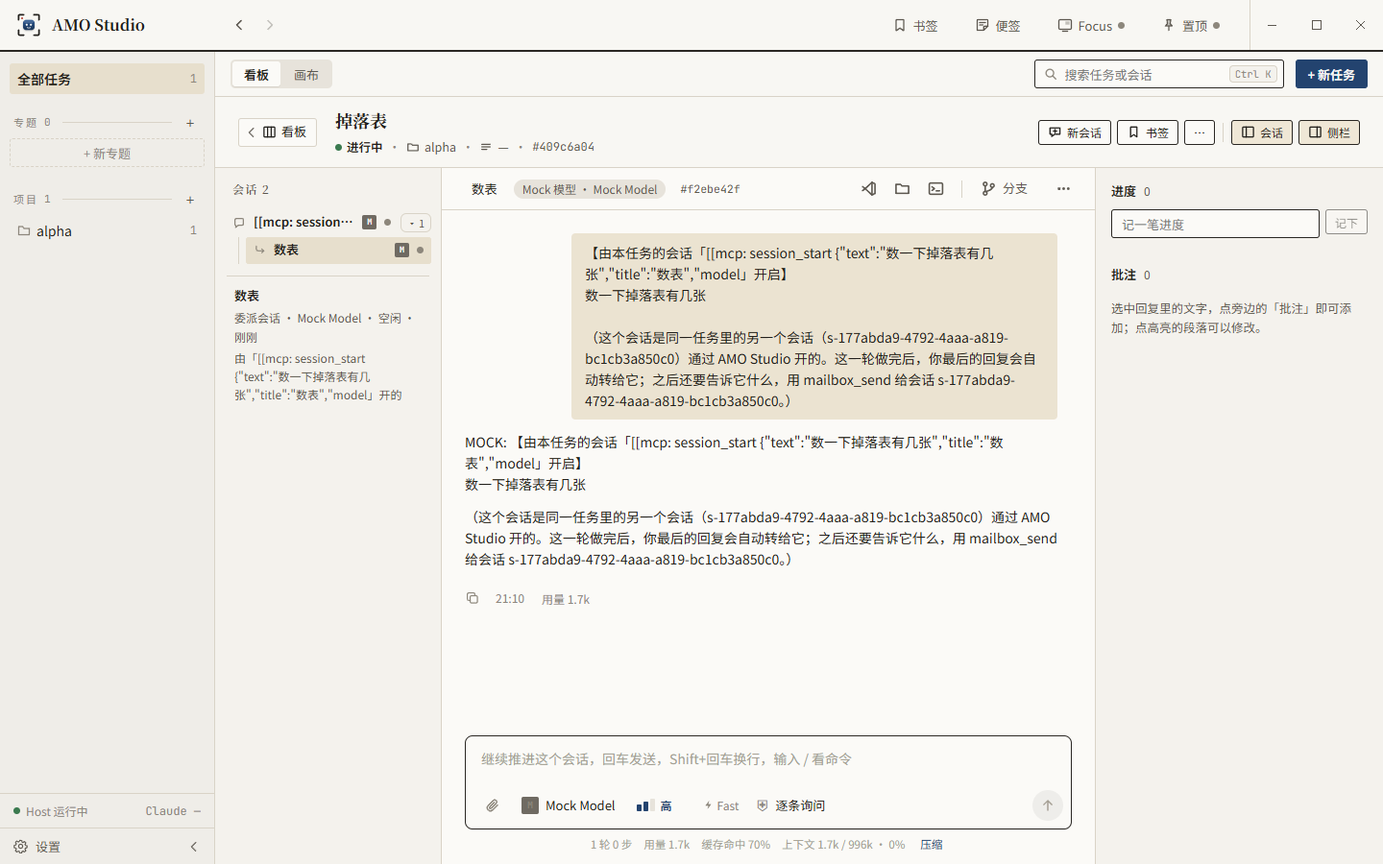
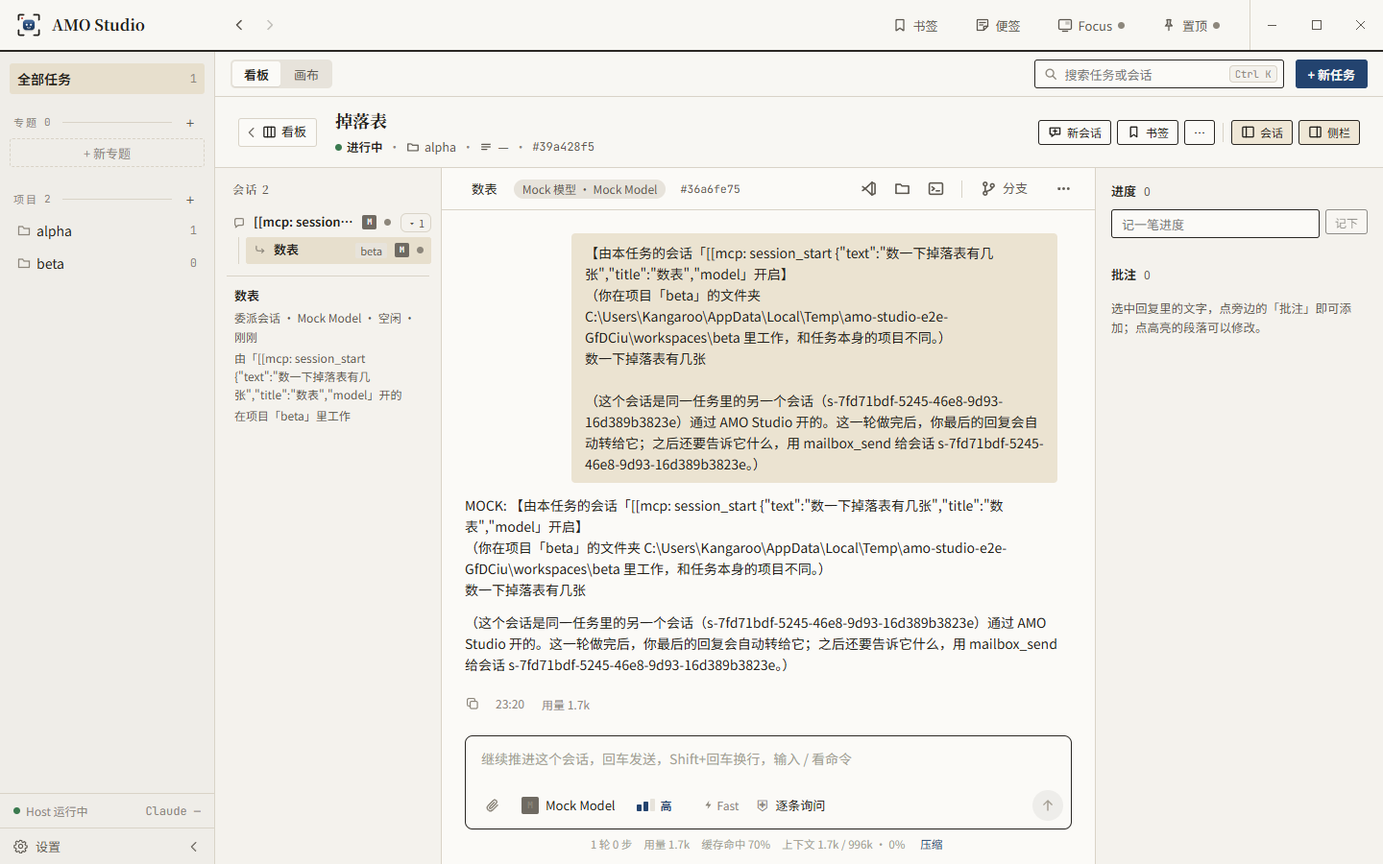
feat(studio): session_start can run a session in another project and pick its permission; DSH full access is Studio saying yes, since DSH 0.2 keeps a session's starting permission

diff --git a/studio/packages/host/src/features/sessions/service.ts b/studio/packages/host/src/features/sessions/service.ts
@@ -1,5 +1,5 @@
 import { resolve } from "node:path";
-import { asyncAnswerText, composeAnnotationRefs, composeRoleUpdate, formContent, type Attachment, type SessionOptions, type ApprovalDecision, type Id, type QuestionAnswer, type QuestionReply, type Session, type SessionItem, type TerminalAttach } from "@amo-studio/protocol";
+import { isCommon, type Workspace, asyncAnswerText, composeAnnotationRefs, composeRoleUpdate, formContent, type Attachment, type SessionOptions, type ApprovalDecision, type Id, type QuestionAnswer, type QuestionReply, type Session, type SessionItem, type TerminalAttach } from "@amo-studio/protocol";
 import type { SendMode } from "../../runtime/runtime.js";
 import type { TerminalHandle } from "../../terminal/launcher.js";
 import { HostError, optionValue, boundedText, TERMINAL_TOKEN_ENV } from "../../core/shared.js";
@@ -253,10 +253,11 @@ export class SessionsFeature extends Feature {
    * 开会话 (session_start, 2026-10-22): a session of a task starts another main session in the same task, at once (the
    * person chose not to be asked: they watch the task, and can stop it). The model is the caller's unless named. With
    * `report`, the new session's first finished turn goes back into the caller's conversation (queued while it works).
-   * `fullAccess` (2026-10-22, the person's wish): it starts with its runtime's 完全访问 — no sandbox, no asking — for
-   * work outside the task's folder (a task in the common space whose code is in a project) or many commands in a row.
+   * 2026-10-22 (the person's wish, after a task in the common space sent its sessions into the wrong folder):
+   * `workspace` runs it in another project (by name, id or path) while it stays the task's; `permission` (read-only /
+   * write / full) picks its runtime's matching permission instead of the model's default.
    */
-  async startPeer(fromSessionId: Id, input: { text?: unknown; model?: unknown; title?: unknown; report?: unknown; fullAccess?: unknown }): Promise<Session> {
+  async startPeer(fromSessionId: Id, input: { text?: unknown; model?: unknown; title?: unknown; report?: unknown; workspace?: unknown; permission?: unknown }): Promise<Session> {
     const from = this.requireSession(fromSessionId);
     if (from.kind === "sub") throw new HostError("bad_request", "子 agent 不能开 AMO 会话：交给你的主会话来开。");
     if (!from.taskId) throw new HostError("bad_request", "你是专题会话，没有自己的任务：开任务要用 task_plan_propose 提案。");
@@ -266,22 +267,41 @@ export class SessionsFeature extends Feature {
     const title = input.title === undefined || input.title === null || input.title === "" ? null : boundedText(input.title, "title", 100);
     const profileId = typeof input.model === "string" && input.model.trim() ? this.f.profileByRef(input.model.trim()).id : from.profileId;
     const report = input.report === true;
-    const options = input.fullAccess === true ? { permission: FULL_ACCESS[this.f.requireProfile(profileId).runtime] } : undefined;
+    const workspace = input.workspace === undefined || input.workspace === null || input.workspace === "" ? this.requireLiveWorkspace(task.workspaceId) : this.workspaceByRef(input.workspace);
+    let options: { permission: string } | undefined;
+    if (input.permission !== undefined && input.permission !== null && input.permission !== "") {
+      const level = PERMISSION_LEVELS.find((l) => l === input.permission);
+      if (!level) throw new HostError("bad_request", `permission must be one of: ${PERMISSION_LEVELS.join(", ")}`);
+      options = { permission: PERMISSIONS[this.f.requireProfile(profileId).runtime][level] };
+    }
+    const elsewhere = workspace.id !== task.workspaceId;
     const message = [
       `【由本任务的会话「${from.title || "未命名会话"}」开启】`,
+      ...(elsewhere ? [`（你在项目「${isCommon(workspace) ? "公共目录" : workspace.name}」的文件夹 ${workspace.path} 里工作，和任务本身的项目不同。）`] : []),
       text,
       "",
       report
         ? `（这个会话是同一任务里的另一个会话（${from.id}）通过 AMO Studio 开的。这一轮做完后，你最后的回复会自动转给它；之后还要告诉它什么，用 mailbox_send 给会话 ${from.id}。）`
         : `（这个会话是同一任务里的另一个会话（${from.id}）通过 AMO Studio 开的。要告诉它什么，用 mailbox_send 给会话 ${from.id}。）`,
     ].join("\n");
-    const started = await this.f.tasks.startSession({ taskId: task.id, topicId: null }, this.requireLiveWorkspace(task.workspaceId), { profileId, text: message, ...(options ? { options } : {}) });
+    const started = await this.f.tasks.startSession({ taskId: task.id, topicId: null }, workspace, { profileId, text: message, ...(options ? { options } : {}) });
     // 委派 (10-22): the session list shows it under the caller; otherwise it is a main session like any other.
     const session = this.store.setSessionStartedBy(started.id, from.id);
     this.publish({ type: "session.upserted", session });
     const named = title ? await this.renameSession(session.id, title).catch(() => session) : session;
     if (report) this.reportBack(named.id, from.id);
     return named;
+  }
+
+  /** A live project (or the common space) by id, name or folder path, as project_context lists them. */
+  private workspaceByRef(ref: unknown): Workspace {
+    if (typeof ref !== "string") throw new HostError("bad_request", "workspace must be a project's name, id or path");
+    const want = ref.trim();
+    const norm = (p: string) => resolve(p).replace(/[\\/]+$/, "").toLowerCase();
+    const live = this.store.listWorkspaces().filter((w) => !w.archivedAt);
+    const found = live.find((w) => w.id === want) ?? live.find((w) => w.name.toLowerCase() === want.toLowerCase()) ?? live.find((w) => norm(w.path) === norm(want));
+    if (!found) throw new HostError("bad_request", `project ${want} not found; choose one of: ${live.filter((w) => !isCommon(w)).map((w) => w.name).join(", ")}`);
+    return found;
   }
 
   /** Watches the new session; its first turn's end (idle, done or failed, not waiting for the person) is reported once. */
@@ -322,8 +342,13 @@ export class SessionsFeature extends Feature {
   }
 }
 
-/** Each runtime's 完全访问, for session_start's fullAccess. */
-const FULL_ACCESS: Record<Session["runtime"], string> = { codex: "full-auto", claude: "bypassPermissions", dsh: "full-access" };
+/** session_start's permission levels, as each runtime's own permission option. */
+const PERMISSION_LEVELS = ["read-only", "write", "full"] as const;
+const PERMISSIONS: Record<Session["runtime"], Record<(typeof PERMISSION_LEVELS)[number], string>> = {
+  codex: { "read-only": "read-only", write: "workspace-write", full: "full-auto" },
+  claude: { "read-only": "plan", write: "acceptEdits", full: "bypassPermissions" },
+  dsh: { "read-only": "read-only", write: "workspace-write", full: "full-access" },
+};
 
 /** How much of the new session's reply a report carries. */
 const REPORT_MAX = 4000;

diff --git a/studio/packages/ui/src/task/SessionTree.tsx b/studio/packages/ui/src/task/SessionTree.tsx
@@ -95,6 +95,12 @@ export function SessionTree({ link, task, sessions, workspaces, profiles, select
     return (p && sessionModelName(storedChoices(p.id), s.options)) || shortModel(p);
   };
   const selectedLive = live.find((s) => s.id === selected) ?? null;
+  // A session working in another project than its task's (session_start's workspace, 2026-10-22) says which.
+  const elsewhere = (s: Session): string | null => {
+    if (s.workspaceId === task.workspaceId) return null;
+    const w = workspaces.find((x) => x.id === s.workspaceId);
+    return w ? (w.builtin === "common" ? "公共目录" : w.name) : null;
+  };
 
   return (
     <>
@@ -156,9 +162,9 @@ export function SessionTree({ link, task, sessions, workspaces, profiles, select
       )}
 
       <div className="slist tree" role="tree" aria-label="会话树">
-        <TreeLevel nodes={tree} all={live} depth={0} parentProfile={null} selected={selected} unread={unread} profileOf={profile} onSelect={onSelect} modelOf={modelOf} folded={folded} />
+        <TreeLevel nodes={tree} all={live} elsewhere={elsewhere} depth={0} parentProfile={null} selected={selected} unread={unread} profileOf={profile} onSelect={onSelect} modelOf={modelOf} folded={folded} />
       </div>
-      {selectedLive && <SessionDetail session={selectedLive} all={live} model={modelOf(selectedLive)} letters={unread?.get(selectedLive.id) ?? 0} />}
+      {selectedLive && <SessionDetail session={selectedLive} all={live} project={elsewhere(selectedLive)} model={modelOf(selectedLive)} letters={unread?.get(selectedLive.id) ?? 0} />}
 
       {archivedRoots.length > 0 && (
         <div className="archived">
@@ -258,6 +264,7 @@ const DELEGATED_ICON = (
 function TreeLevel({
   nodes,
   all,
+  elsewhere,
   depth,
   parentProfile,
   selected,
@@ -269,6 +276,7 @@ function TreeLevel({
 }: {
   nodes: readonly SessionNode[];
   all: readonly Session[];
+  elsewhere(s: Session): string | null;
   depth: number;
   parentProfile: string | null;
   selected: string | null;
@@ -292,6 +300,7 @@ function TreeLevel({
         const alert = !open && hidden.some((x) => needsPerson(x.status) || x.status === "error");
         const starter = delegatedBy(s, all);
         const kind = starter ? "委派会话" : KIND[s.kind];
+        const project = elsewhere(s);
         return (
           <div key={s.id} className="tree-node" role="none">
             <div className="tree-line">
@@ -301,7 +310,7 @@ function TreeLevel({
                 className={depth > 0 ? "srow tree-row child" : "srow tree-row"}
                 aria-current={s.id === selected}
                 aria-level={depth + 1}
-                title={[s.title || "新会话", [kind, modelOf(s), look.label, relativeTime(s.updatedAt)].join(" · "), starter ? `由「${starter.title || "新会话"}」开的，单独归档` : ""].filter(Boolean).join("\n")}
+                title={[s.title || "新会话", [kind, modelOf(s), look.label, relativeTime(s.updatedAt)].join(" · "), starter ? `由「${starter.title || "新会话"}」开的，单独归档` : "", project ? `在项目「${project}」里工作（和任务的项目不同）` : ""].filter(Boolean).join("\n")}
                 onClick={() => onSelect(s.id)}
                 data-testid="session-row"
                 data-kind={s.kind}
@@ -310,6 +319,11 @@ function TreeLevel({
               >
                 <span className="tree-icon">{starter ? DELEGATED_ICON : TREE_ICON[s.kind]}</span>
                 <span className="srow-title">{s.title || "新会话"}</span>
+                {project && (
+                  <span className="tree-ws" data-testid="session-project">
+                    {project}
+                  </span>
+                )}
                 {letters > 0 && (
                   <span className="srow-mail" aria-label={`${letters} 条留言`} title={`${letters} 条留言`} data-testid="session-mail">
                     {letters}
@@ -354,7 +368,7 @@ function TreeLevel({
             </div>
             {open && node.children.length > 0 && (
               <div className={depth + 1 >= MAX_INDENT ? "tree-children flat" : "tree-children"} role="group">
-                <TreeLevel nodes={node.children} all={all} depth={depth + 1} parentProfile={s.profileId} selected={selected} unread={unread} profileOf={profileOf} onSelect={onSelect} modelOf={modelOf} folded={folded} />
+                <TreeLevel nodes={node.children} all={all} elsewhere={elsewhere} depth={depth + 1} parentProfile={s.profileId} selected={selected} unread={unread} profileOf={profileOf} onSelect={onSelect} modelOf={modelOf} folded={folded} />
               </div>
             )}
           </div>
@@ -365,7 +379,7 @@ function TreeLevel({
 }
 
 /** Under the tree: the selected session in words — what it is, model, state, when, and what hangs under it. */
-function SessionDetail({ session: s, all, model, letters }: { session: Session; all: readonly Session[]; model: string; letters: number }) {
+function SessionDetail({ session: s, all, project, model, letters }: { session: Session; all: readonly Session[]; project: string | null; model: string; letters: number }) {
   const look = SESSION_LOOK[s.status];
   const under = (id: string): Session[] => all.filter((x) => listParent(x) === id).flatMap((x) => [x, ...under(x.id)]);
   const below = under(s.id);
@@ -386,6 +400,7 @@ function SessionDetail({ session: s, all, model, letters }: { session: Session; 
         {[kindText(s, all), model].filter(Boolean).join(" · ")} · <span style={{ color: look.text }}>{look.label}</span> · {relativeTime(s.updatedAt)}
       </span>
       {starter && <span>由「{starter.title || "新会话"}」开的</span>}
+      {project && <span>在项目「{project}」里工作</span>}
       {parts.length > 0 && <span>{parts.join(" · ")}</span>}
       {(letters > 0 || s.writer === "terminal-shared") && <span>{[letters > 0 ? `${letters} 条留言` : "", s.writer === "terminal-shared" ? "终端已接入" : ""].filter(Boolean).join(" · ")}</span>}
     </div>

diff --git a/studio/packages/host/src/runtime/dsh/dsh-runtime.ts b/studio/packages/host/src/runtime/dsh/dsh-runtime.ts
@@ -180,25 +180,31 @@ export class DshRuntime extends RuntimeBase implements SessionRuntimeApi {
   }
 
   /**
-   * Model and effort go to DSH before the next turn; a new permission restarts the session's process — at once when it
-   * is idle, else once the running turn ends (2026-10-19: a change made mid-turn was lost, and the process went on
-   * asking under its old sandbox for as long as it lived). 完全访问 also counts at once (2026-10-22, as in DSH's own
-   * CLI): until the restart, Studio says yes to what the process asks, the requests already waiting included.
+   * Model and effort go to DSH before the next turn. A new permission restarts the session's process (at once when it
+   * is idle, else once the running turn ends), which is all an older DSH needed. DSH 0.2 writes the permission a session
+   * starts with into the session itself and keeps it across restarts (2026-10-22: a session switched to 完全访问 went on
+   * asking after a stop and 继续), so: 完全访问 is Studio saying yes to whatever DSH asks, the requests already waiting
+   * included, from the moment it is chosen (as in DSH's own CLI); a stricter permission cannot reach a session that
+   * has started, and the session says so.
    */
   async setOptions(sessionId: Id, options: SessionOptions): Promise<Session> {
-    this.requireSession(sessionId);
+    const before = this.requireSession(sessionId);
     const updated = this.updateSession(sessionId, { options });
+    const from = dshPermissionMode(before.options.permission);
+    const to = dshPermissionMode(options.permission);
     const live = this.live.get(sessionId);
+    if (from !== to && before.runtimeRef) {
+      const message =
+        to === "danger-full-access"
+          ? "已切到完全访问：DSH 再要权限时 Studio 直接同意（正在等的也一并同意）"
+          : "DSH 把会话开始时的权限记在会话里，已经开始的会话收紧权限不会生效（放宽到完全访问可以）；要更严的权限，请新开一个会话";
+      this.appendItem(sessionId, { type: "notice", level: "info", message }, { method: "dsh/permission", ...(live?.inflight ? live.transcript.turnRef() : {}) });
+    }
     if (!live) return updated;
-    const permissionChanged = live.permission !== dshPermissionMode(options.permission);
+    if (to === "danger-full-access") for (const w of [...live.waiting.values()]) this.settleWaiting(sessionId, live, w, "allow");
     if (!live.inflight) {
-      if (permissionChanged) await this.release(sessionId);
+      if (live.permission !== to) await this.release(sessionId);
       else await this.applyOptions(sessionId, live).catch((err: unknown) => this.emit("log", `dsh set options failed for ${sessionId}: ${String(err)}`));
-    } else if (permissionChanged && dshPermissionMode(options.permission) === "danger-full-access") {
-      for (const w of [...live.waiting.values()]) this.settleWaiting(sessionId, live, w, "allow");
-      this.appendItem(sessionId, { type: "notice", level: "info", message: "已切到完全访问：这一轮剩下的请求 Studio 直接同意；这一轮结束后 DSH 换成新权限（会话接着之前的继续）" }, { method: "dsh/permission-pending", ...live.transcript.turnRef() });
-    } else if (permissionChanged) {
-      this.appendItem(sessionId, { type: "notice", level: "info", message: "新的权限在这一轮结束后生效（DSH 换权限要重启它的进程，会话接着之前的继续）" }, { method: "dsh/permission-pending", ...live.transcript.turnRef() });
     }
     return updated;
   }

diff --git a/studio/packages/host/src/features/sessions/mcp.ts b/studio/packages/host/src/features/sessions/mcp.ts
@@ -17,14 +17,14 @@ export function sessionsTools({ service, caller, model }: ToolContext): AmoTool[
       name: "session_start",
       title: "开会话",
       description:
-        "Start another main session in your own task, at once (no approval), to work on a part in parallel or with a fresh context. text: its first message — enough to work on its own. model: a model's name or id from amo_whoami (default yours) — e.g. a cheaper one to carry out a detailed plan of yours. title: its name in the session list (optional). report: true when you need its result — when its first turn ends, its last reply comes back into your conversation as a message; leave it out when you do not. fullAccess: true starts it with full access (no sandbox, no approvals) — for work in a folder outside the task's own (see amo_whoami) or long runs of commands; leave it out otherwise. It shows under you in the task's session list, where the person can watch or stop it; it is archived on its own. For another task use relay_send (主控) or mailbox_send.",
-      inputSchema: { text: z.string(), model: z.string().optional(), title: z.string().optional(), report: z.boolean().optional(), fullAccess: z.boolean().optional() },
+        "Start another main session in your own task, at once (no approval), to work on a part in parallel or with a fresh context. text: its first message — enough to work on its own. model: a model's name or id from amo_whoami (default yours) — e.g. a cheaper one to carry out a detailed plan of yours. title: its name in the session list (optional). report: true when you need its result — when its first turn ends, its last reply comes back into your conversation as a message; leave it out when you do not. workspace: another project to work in (its name, id or path from project_context) when the work is not in the task's own folder; it stays a session of your task. permission: read-only, write (its folder, asking beyond it) or full (no sandbox, no approvals — for long runs of commands); the model's default when left out. It shows under you in the task's session list, where the person can watch or stop it; it is archived on its own. For another task use relay_send (主控) or mailbox_send.",
+      inputSchema: { text: z.string(), model: z.string().optional(), title: z.string().optional(), report: z.boolean().optional(), workspace: z.string().optional(), permission: z.enum(["read-only", "write", "full"]).optional() },
       readOnly: false,
       autoApprove: true,
       run: (args) =>
         writeAsync(caller, async (c) => {
           const s = await service.sessions.startPeer(c.sessionId, args);
-          return { sessionId: s.id, title: s.title, model: service.requireProfile(s.profileId).label, permission: s.options.permission ?? "default", report: args.report === true, note: args.report === true ? "已开会话；它这一轮做完后，回复会作为消息回到你这里。" : "已开会话；它在任务的会话列表里。" };
+          return { sessionId: s.id, title: s.title, model: service.requireProfile(s.profileId).label, project: service.store.getWorkspace(s.workspaceId)?.name, permission: s.options.permission ?? "default", report: args.report === true, note: args.report === true ? "已开会话；它这一轮做完后，回复会作为消息回到你这里。" : "已开会话；它在任务的会话列表里。" };
         }),
     },
   ];

diff --git a/studio/packages/host/src/features/sessions/peer.test.ts b/studio/packages/host/src/features/sessions/peer.test.ts
@@ -59,15 +59,29 @@ describe("session_start (开会话)", () => {
     expect(first).toContain("只改数值表，别动界面");
     expect(first).toContain(`mailbox_send 给会话 ${caller.id}`);
     expect((await service.sessions.startPeer(caller.id, { text: "看看界面", model: "gpt" })).profileId).toBe("p-gpt");
-    // fullAccess: the runtime's 完全访问 (Codex: full-auto); otherwise the model's default.
-    expect((await service.sessions.startPeer(caller.id, { text: "查另一个仓库", fullAccess: true })).options.permission).toBe("full-auto");
+    // permission: the runtime's own option for the level (Codex: full-auto, read-only); otherwise the model's default.
+    expect((await service.sessions.startPeer(caller.id, { text: "跑一串命令", permission: "full" })).options.permission).toBe("full-auto");
+    expect((await service.sessions.startPeer(caller.id, { text: "只读看看", permission: "read-only" })).options.permission).toBe("read-only");
     expect(s.options.permission).not.toBe("full-auto");
+    await expect(service.sessions.startPeer(caller.id, { text: "x", permission: "root" })).rejects.toThrow(/permission must be/);
     // Archiving the caller leaves the sessions it started alone.
     await service.sessions.archive(caller.id);
     expect(store.getSession(s.id)?.archivedAt).toBeNull();
     // No report asked: nothing comes back into the caller.
     await new Promise((r) => setTimeout(r, 300));
     expect(userTexts(caller.id).some((t) => t.includes("这一轮做完了"))).toBe(false);
+  });
+
+  it("runs in another project when asked (by name or path), still a session of the task, and says where it works", async () => {
+    mkdirSync(join(root, "beta"));
+    const beta = store.addWorkspace({ path: join(root, "beta"), name: "beta" });
+    const byName = await service.sessions.startPeer(caller.id, { text: "看 beta 的提交", workspace: "beta" });
+    expect(byName).toMatchObject({ taskId: task.id, workspaceId: beta.id, startedBy: caller.id });
+    expect(userTexts(byName.id)[0]).toContain(`你在项目「beta」的文件夹 ${beta.path} 里工作`);
+    expect((await service.sessions.startPeer(caller.id, { text: "再看", workspace: `${beta.path}\\` })).workspaceId).toBe(beta.id);
+    // Its own project: no note.
+    expect(userTexts((await service.sessions.startPeer(caller.id, { text: "本项目", workspace: "alpha" })).id)[0]).not.toContain("里工作，和任务本身的项目不同");
+    await expect(service.sessions.startPeer(caller.id, { text: "x", workspace: "nope" })).rejects.toThrow(/project nope not found/);
   });
 
   it("with report, the new session's first finished turn comes back into the caller's conversation", async () => {

diff --git a/studio/packages/host/src/runtime/dsh/dsh-runtime.integration.test.ts b/studio/packages/host/src/runtime/dsh/dsh-runtime.integration.test.ts
@@ -232,7 +232,7 @@ describe("DSH runtime", () => {
     expect(builtin.models.map((m) => m.label)).toEqual(["deepseek-v4-flash", "DeepSeek-V4-Pro"]);
   });
 
-  it("完全访问 chosen mid-turn counts at once (what waits is granted), and the process restarts with it once the turn ends (2026-10-19, 10-22)", async () => {
+  it("完全访问 chosen mid-turn counts at once (what waits is granted, and what DSH asks after), and the process restarts with it once the turn ends (2026-10-19, 10-22)", async () => {
     const host = await boot();
     const s = await start(host, "[[ask: New-Item a.txt]]");
     await until(() => status(host, s.id), (v) => v === "awaiting-approval");
@@ -246,14 +246,19 @@ describe("DSH runtime", () => {
     expect(replies(await items(host, s.id))[1]).toMatch(/^ENV permission=danger-full-access key=yes /);
     // The same DSH session, resumed.
     expect(replies(await items(host, s.id))[0]).toBe("DONE New-Item a.txt");
+    // DSH 0.2 keeps the permission a session started with, so it may still ask: Studio says yes.
+    await call(host, "POST", `/api/sessions/${s.id}/messages`, { text: "[[ask: New-Item c.txt]]" });
+    await until(() => items(host, s.id), (l) => replies(l).length === 3);
+    expect(replies(await items(host, s.id))[2]).toBe("DONE New-Item c.txt");
+    expect((await items(host, s.id)).filter((i) => i.type === "approval").every((i) => i.type === "approval" && i.state === "accepted")).toBe(true);
   });
 
-  it("a stricter permission chosen mid-turn waits for the turn to end; the request still asks the person", async () => {
+  it("a stricter permission on a session that has started: it says DSH keeps the old one; the request still asks the person", async () => {
     const host = await boot();
     const s = await start(host, "[[ask: New-Item b.txt]]");
     await until(() => status(host, s.id), (v) => v === "awaiting-approval");
     await call(host, "PATCH", `/api/sessions/${s.id}/options`, { permission: "read-only" });
-    await until(() => items(host, s.id), (l) => l.some((i) => i.type === "notice" && i.message.includes("这一轮结束后生效")));
+    await until(() => items(host, s.id), (l) => l.some((i) => i.type === "notice" && i.message.includes("收紧权限不会生效")));
     const approval = (await items(host, s.id)).find((i) => i.type === "approval");
     expect(approval).toMatchObject({ state: "pending" });
     await call(host, "POST", `/api/approvals/${approval?.type === "approval" ? approval.approvalId : ""}`, { sessionId: s.id, decision: "decline" });

diff --git a/studio/packages/host/src/features/guide/guide.ts b/studio/packages/host/src/features/guide/guide.ts
@@ -36,7 +36,7 @@ const GUIDE: Record<GuideSection, string> = {
 
 - mailbox_send：给一个会话、任务或专题留言；mailbox_read：读给你的留言。留言什么时候进对话由人决定。
 - decision_request：请人拍板（给几个选项）；答案作为留言回来。
-- session_start：在你自己的任务里再开一个会话（不用人确认），把一部分活并行交出去或换个干净的上下文；第一句话要写够让它能独立开工。需要它的结果时带 report: true，它这一轮做完后回复会作为消息回到你的对话里；不需要就不带。可以用 model 换一个模型（amo_whoami 列出的名字）：强模型额度紧时，把调查和照计划改代码交给便宜的模型，你出计划、它执行，计划要写到它不用再问就能做（改哪些文件、怎么改、怎么验证）。它在会话列表里挂在你下面，但是独立的会话：你归档时它不跟着归档。它在任务的文件夹里工作、用那个模型的默认权限（常常是沙箱）；要它在别的文件夹里干活（例如任务在公共空间、代码在某个项目里），或要连续跑很多命令，带 fullAccess: true 让它以完全访问开始，免得每条命令都等人批准。
+- session_start：在你自己的任务里再开一个会话（不用人确认），把一部分活并行交出去或换个干净的上下文；第一句话要写够让它能独立开工。需要它的结果时带 report: true，它这一轮做完后回复会作为消息回到你的对话里；不需要就不带。可以用 model 换一个模型（amo_whoami 列出的名字）：强模型额度紧时，把调查和照计划改代码交给便宜的模型，你出计划、它执行，计划要写到它不用再问就能做（改哪些文件、怎么改、怎么验证）。它在会话列表里挂在你下面，但是独立的会话：你归档时它不跟着归档。它默认在任务的文件夹里工作、用那个模型的默认权限（常常是沙箱）；活在别的项目里时（例如任务在公共空间、代码在某个项目里）带 workspace（project_context 里的项目名或路径），要连续跑很多命令时带 permission: "full"（只读调查用 "read-only"），免得每条命令都等人批准。
 - 不要直接改别的任务的文件或会话；需要别的任务配合时留言给它（或它的主控）。`,
   lead: `# 主控
 

diff --git a/studio/e2e/tests/session-start.spec.ts b/studio/e2e/tests/session-start.spec.ts
@@ -18,7 +18,8 @@ for (const [profileId, other] of [["claude-mock", "codex-mock"], ["codex-mock", 
     studio = await launchStudio();
     const { page } = studio;
     const ws = await studio.api<Workspace>("POST", "/api/workspaces", { path: studio.workspace("alpha") });
-    const start = `[[mcp: session_start ${JSON.stringify({ text: "数一下掉落表有几张", title: "数表", model: other, report: true })}]]`;
+    const beta = await studio.api<Workspace>("POST", "/api/workspaces", { path: studio.workspace("beta") });
+    const start = `[[mcp: session_start ${JSON.stringify({ text: "数一下掉落表有几张", title: "数表", model: other, report: true, workspace: "beta" })}]]`;
     const { task, session: caller } = await studio.api<{ task: Task; session: Session }>("POST", "/api/tasks", {
       title: "掉落表",
       workspaceId: ws.id,
@@ -28,7 +29,7 @@ for (const [profileId, other] of [["claude-mock", "codex-mock"], ["codex-mock", 
     // No approval asked: the second main session is there, named, on the model asked for, marked as the caller's.
     await expect.poll(async () => (await sessions()).find((s) => s.id !== caller.id)?.title, { timeout: 60_000 }).toBe("数表");
     const started = (await sessions()).find((s) => s.id !== caller.id)!;
-    expect(started).toMatchObject({ kind: "main", parentId: null, title: "数表", profileId: other, startedBy: caller.id });
+    expect(started).toMatchObject({ kind: "main", parentId: null, title: "数表", profileId: other, startedBy: caller.id, workspaceId: beta.id, taskId: task.id });
 
     await page.getByTestId("task-card").first().click();
     const thread = page.getByTestId("thread");
@@ -41,6 +42,8 @@ for (const [profileId, other] of [["claude-mock", "codex-mock"], ["codex-mock", 
     await expect(row).toHaveAttribute("data-delegated", "true");
     await expect(row).toHaveAttribute("title", /委派会话/);
     await expect(page.getByTestId("session-fold")).toHaveText(/1/);
+    // It works in another project than the task's: the row says which.
+    await expect(row.getByTestId("session-project")).toHaveText("beta");
     // The new session says who started it.
     await row.click();
     await expect(page.getByTestId("session-detail")).toContainText("由「");

diff --git a/studio/packages/ui/src/task/task.css b/studio/packages/ui/src/task/task.css
@@ -230,6 +230,8 @@
 .srow.tree-row.child .srow-title { font-weight: 400; color: var(--text); }
 .srow.tree-row.child[aria-current="true"] .srow-title { font-weight: 600; }
 .tree-icon { flex: none; display: inline-flex; color: var(--text-faint); }
+/* A session working in another project than its task's (2026-10-22): that project's name, small and faint. */
+.tree-ws { flex: none; max-width: 40%; overflow: hidden; text-overflow: ellipsis; white-space: nowrap; padding: 0 5px; border-radius: var(--r-s); background: var(--chip); color: var(--text-dim); font-size: 11px; line-height: 16px; }
 .tree-icon svg { fill: none; stroke: currentColor; stroke-width: 1.5; stroke-linecap: round; stroke-linejoin: round; }
 .srow.tree-row[data-kind="fork"] .tree-icon { color: var(--text-dim); }
 .tree-children { display: flex; flex-direction: column; gap: 1px; margin-left: 14px; padding-left: 7px; border-left: 1px solid var(--border); }

diff --git a/studio/HANDOFF.md b/studio/HANDOFF.md
@@ -2,6 +2,8 @@
 
 给下一个会话看的起点。先读这份，再按需读下面列出的文件。
 
+**2026-10-22 · 委派会话可以在别的项目里、DSH 权限的真实原因**：用户要求放开「任务的会话都在任务的项目里」：`session_start` 加 `workspace`（项目名/id/路径），会话仍属于该任务，只是在那个项目的文件夹里工作（第一句话说明在哪），会话列表行上显示项目名小标签、详情写「在项目 X 里工作」。刚加的 `fullAccess` 换成 `permission: read-only | write | full`，按运行时映射（Codex read-only/workspace-write/full-auto，Claude plan/acceptEdits/bypassPermissions，DSH read-only/workspace-write/full-access）。**DSH 0.2 的权限**：它的 permission-presets 插件在会话创建时把权限写进会话记录（`permission/preset`、`sandbox/mode`、`approval/policy` 三条事件，见 `.data/dsh/home/sessions/<cwd>/<id>/session.v4.jsonl.zstd`），之后进程重启也以记录为准，`DSH_PERMISSION_MODE` 只决定新会话；ACP 没有斜杠命令也不能改它。所以：完全访问＝Studio 对 DSH 的每个提权请求直接同意（从选中那一刻起，等着的一并同意）；对已开始的会话收紧权限不生效，界面如实提示「要更严的权限请新开会话」。用户实测「停止再继续仍要权限」就是这个原因。另：新版 DSH 默认只有 workspace-write / danger-full-access 两个预设，Studio 的「只读」可能让 DSH 启动报 no preset，未验证。**DSH 会话没有 tok/s**：ACP 只给上下文用量；DSH 自己的会话记录里每次调用有 `usage.outputTokens` 和流式时间（`assistant/message` 的 `usage`、`stream`），可以读来算准确速度，等用户决定。验证：typecheck/build 通过；vitest 711/716（server-manager 端口冲突同前）；DSH 16/16；e2e session-start（含跨项目标签）+ focus-subagents 5/5。
+
 **2026-10-22 · 委派会话实测后的四个修正**：用户在任务「将lks的分支改动合并到本分支」里让 Opus 主会话开了 3 个 DSH（deepseek-flash）调查会话。①Focus：委派会话在开它的会话未归档时按子 agent 处理（`lib/sessionSeen.ts` 的 `hangsUnderOf`；进行中挂在父会话「▸ N」下、带拐弯箭头；父会话要等它们跑完才算完成；置顶取父会话）；等你审批的委派会话仍单独列在等你处理。②根因：任务建在公共空间 `E:\TOOLS\AMO`，代码在项目 project_mining_dev；DSH 在公共目录初始化沙箱失败（Win32 5），几乎每条命令都要批准。有会话的任务不能改项目，所以 `session_start` 加了 `fullAccess: true`（Codex full-auto / Claude bypassPermissions / DSH full-access），guide 里说明什么时候用。以后这类任务直接建在对应项目里。③会话中途切到完全访问立即生效：DSH（ACP 只能换模型和思考强度，换权限要重启进程）在这一轮里 Studio 直接同意等待中的和之后的请求，这一轮结束后按新权限重启；Codex 同样直接同意（MCP 表单不算）。改成更严的权限仍是这一轮结束后生效。④「AMO 更新：任务说明改成了…」是会话自己用 task_describe 写的说明又被当成别人的改动告诉它：现在写自己任务说明的会话不再被告知（`noteOwnDescription`），任务里的其他会话照常收到。验证：typecheck/build 通过；vitest 713/715（`server-manager.test.ts` 在开着日常 Studio 时端口冲突，与改动无关）；e2e focus/focus-subagents/focus-history/session-start 15/15。改了 Host，重启后生效。
 
 **2026-10-22 · 委派会话（会话开会话，挂在父会话下）**：`session_start` 本来就能带 `model` 换模型；现在开出来的会话记下 `startedBy`（迁移 19，`sessions.started_by`），会话列表用 `buildSessionTree(live, { delegated: true })` 把它挂到开它的会话下面，图标是拐弯箭头，悬停和详情写「委派会话 · 由「X」开的」，「▸ N」折叠计数也算它。它仍然是 `kind: "main"`、`parentId: null` 的主会话：用户定了**父会话归档时它不跟着归档**（`collectSubtreeIds` 只看 parentId），主控转发、看板计数、Review 列表照旧。`session_tree`（MCP）的节点多一个 `startedBy`。`guide.ts` 和 `session_start` 说明加了一句：强模型额度紧时，把调查和照计划改代码交给便宜模型，计划写到不用再问。验证：typecheck/build 通过；vitest 全量 700/705（`server-manager.test.ts` 3 个在满负载下超时，单独跑 4/4 通过）；`session-start.spec.ts` 两个方向（Claude→Codex、Codex→Claude）通过。截图 `screenshots/stage-18/S18-session-start.png`。改了 Host（有迁移），重启后生效；本轮未重启日常实例。
